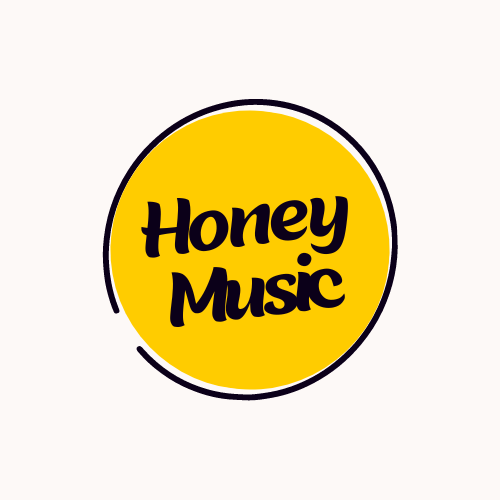
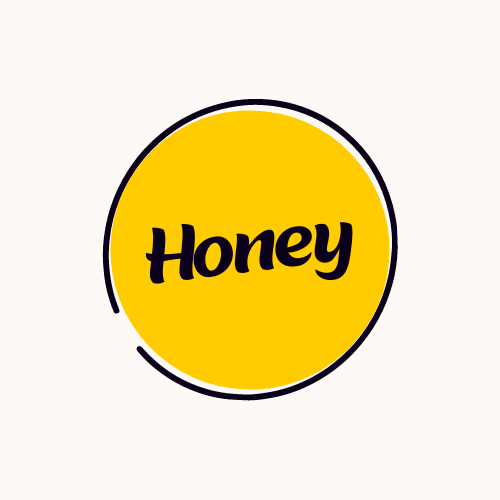
style: 로고 수정

Changed region(s): [[0.27, 0.39, 0.72, 0.66]]

diff --git a/index.html b/index.html
@@ -4,7 +4,7 @@
     <meta charset="UTF-8" />
     <meta name="viewport" content="width=device-width, initial-scale=1.0" />
     <link rel="icon" href="./public/images/honey-icon.png" />
-    <title>Honey Music</title>
+    <title>Honey - The Music App</title>
   </head>
   <body>
     <div id="root"></div>

diff --git a/src/components/nav.tsx b/src/components/nav.tsx
@@ -12,7 +12,7 @@ export default function Nav() {
       <Link className="block rounded-full" to={"/"}>
         <img
           className="w-full h-full rounded-full"
-          src="/images/Honey-removebg-preview.png"
+          src="/images/Honey.png"
           alt="logo"
         />
       </Link>
